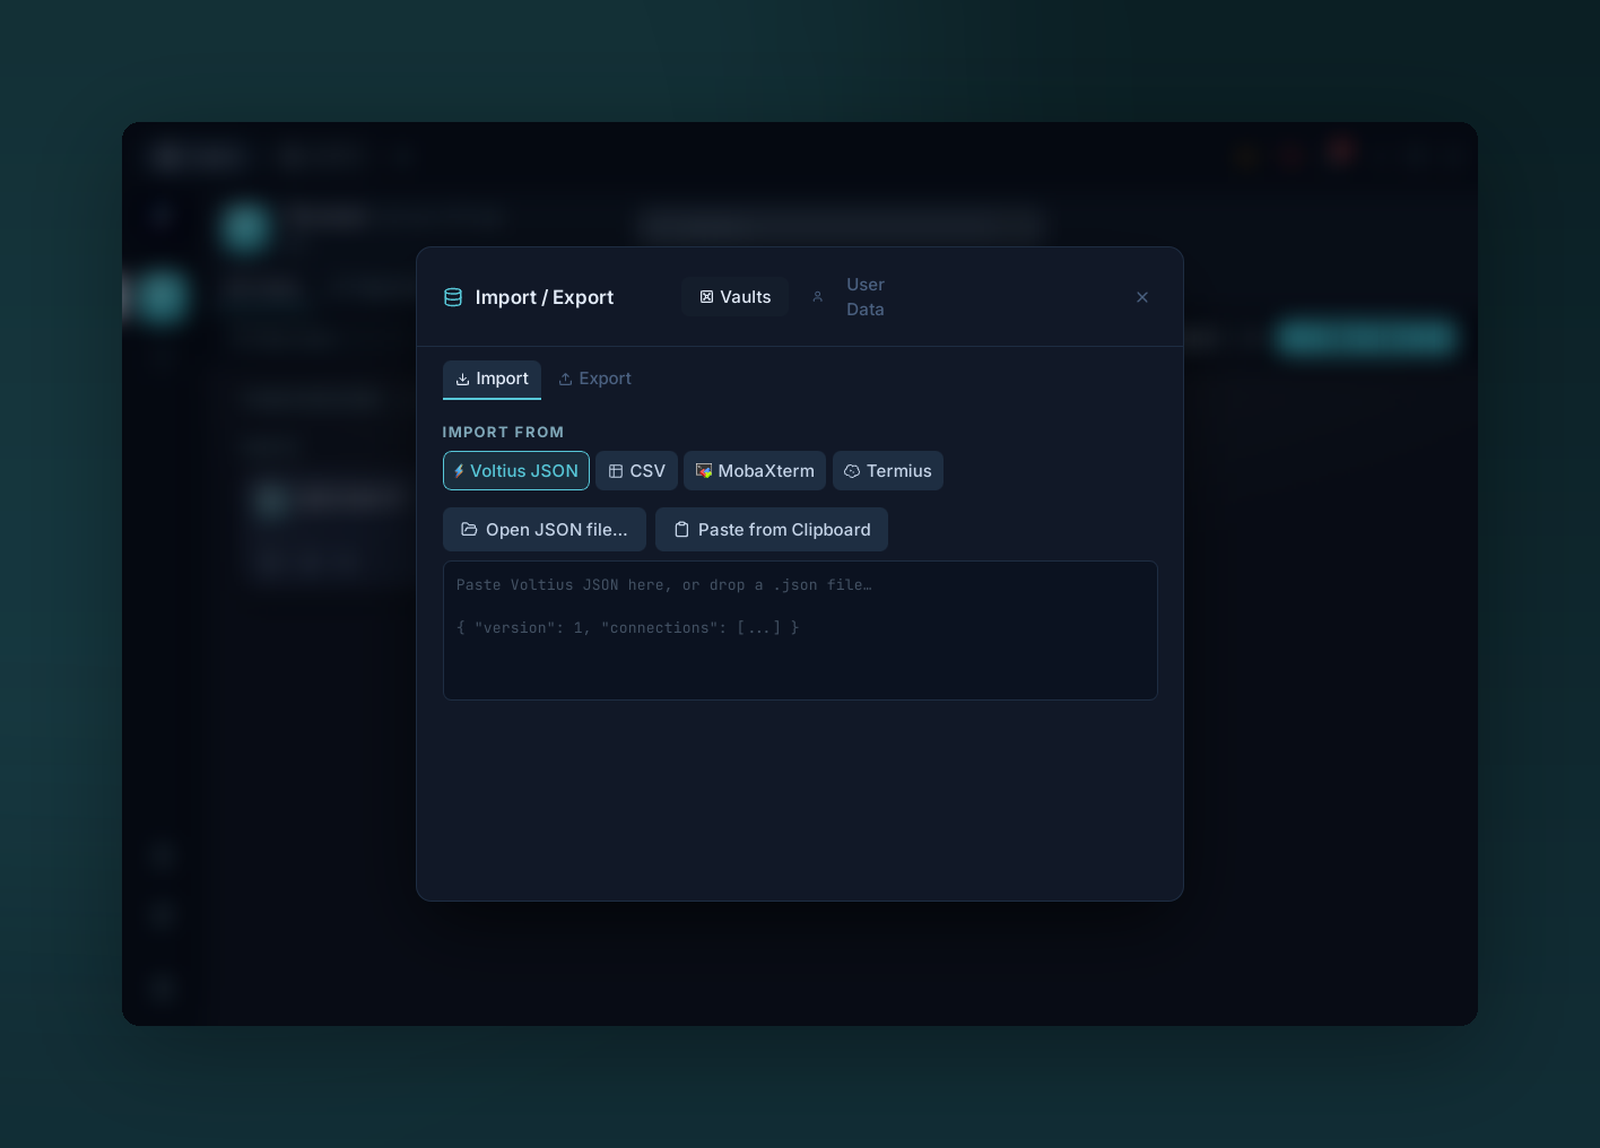
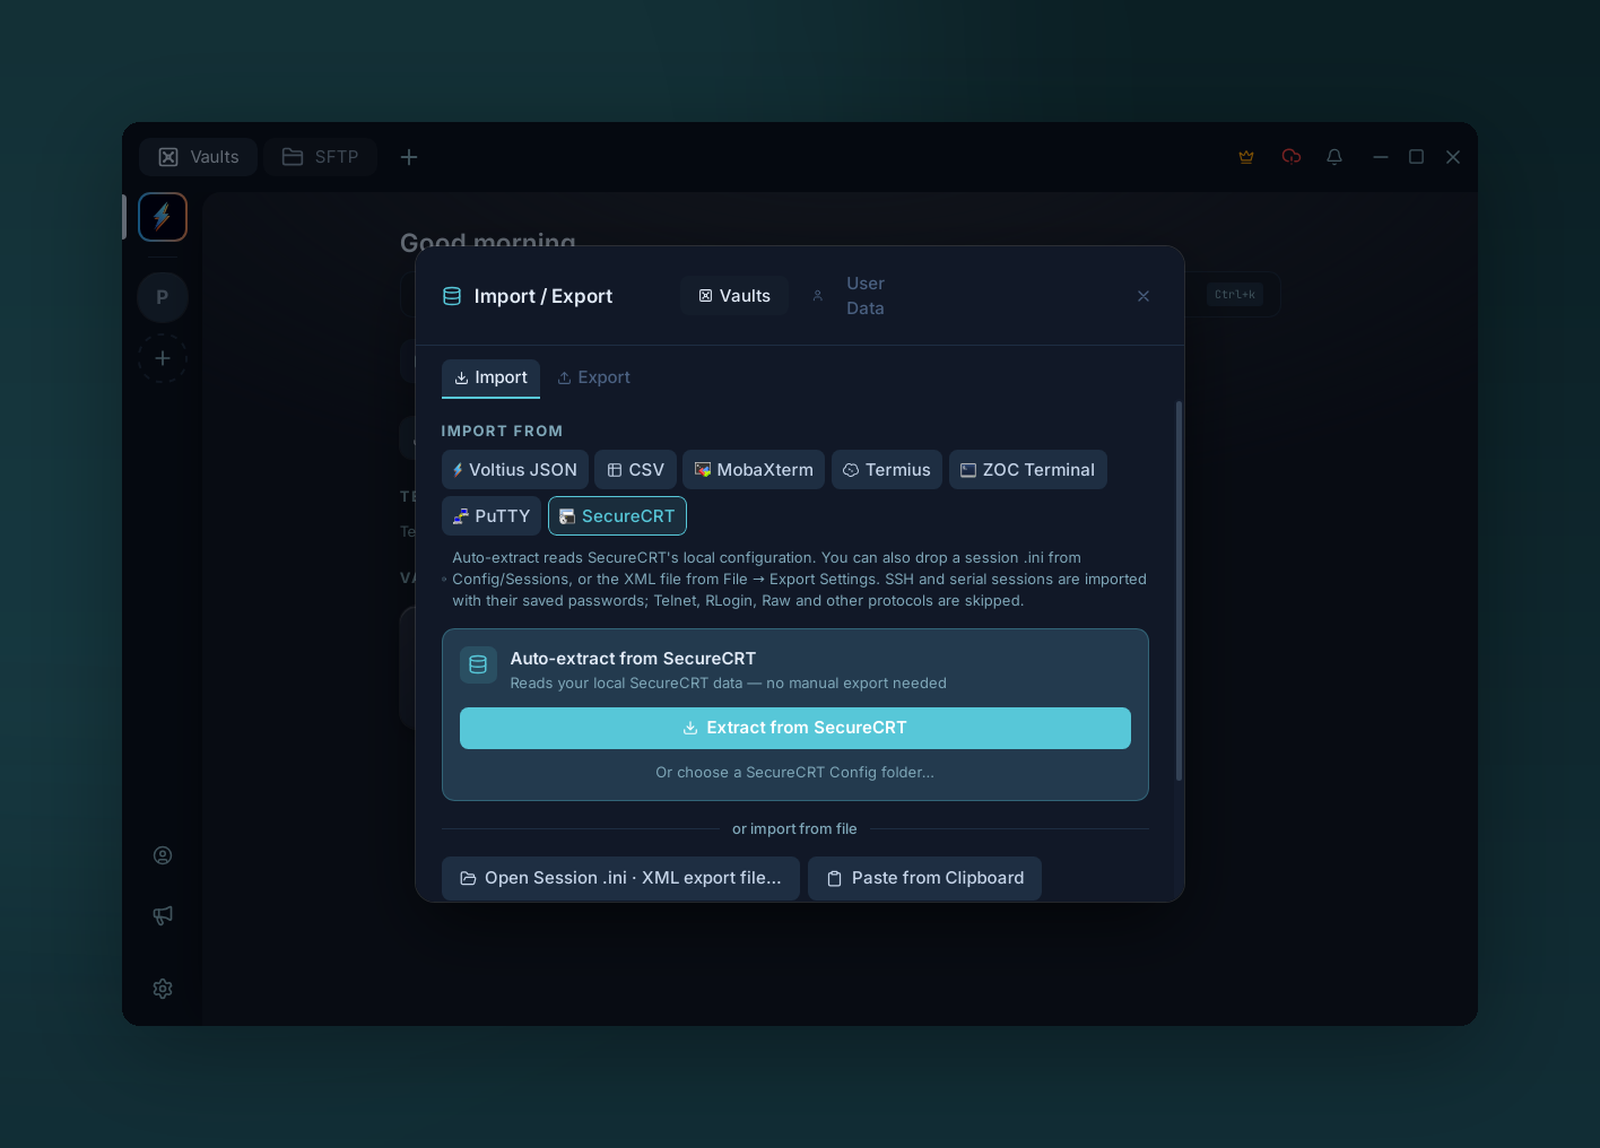
docs(import-export): document every import source and the review step (#31)
The page still said JSON-only and that Termius/PuTTY import wasn't built in.
List each source with how it's read and what it brings over, document the
review step and the real export options, and retake the dialog screenshot.

diff --git a/docs/organization/import-export.md b/docs/organization/import-export.md
@@ -6,25 +6,48 @@ icon: lucide/arrow-down-up
 
 ![The Import / Export dialog](../assets/screenshots/organization-import-export.png){ .voltius-shot }
 /// caption
-Import from Voltius JSON, CSV, MobaXterm, or Termius — or export your vault.
+Import from Voltius JSON, CSV, MobaXterm, Termius, ZOC Terminal, PuTTY or SecureCRT — or export your vault.
 ///
 
-**Settings → Import/Export.** JSON only, today. More formats are on the roadmap.
-
-## Export
-
-Pick a vault, click **Export**. A JSON file downloads with:
-
-- Hosts (metadata)
-- Folders, tags
-- Snippets
-- Identities
-
-Secrets (passwords, private keys) are exported in cleartext inside the JSON — treat it like a credential file.
+Open it from the **Import/Export** button in the Hosts toolbar (its menu lists every source), from the dashboard quick actions, or from the command palette (++ctrl+k++, then *Import from…*).
 
 ## Import
 
-Paste JSON or pick a file. Voltius dry-runs the import and shows you what'll be added vs. updated before committing.
+### Sources
 
-!!! warning "Other clients"
-    Direct import from Termius / OpenSSH config / PuTTY isn't built in yet. For now: write a [plugin](../plugins/developing.md) — the API surface for `connections.bulkImport` is designed for this. An example SSH-config importer ships in the marketplace docs.
+| Source | How | What comes over |
+| --- | --- | --- |
+| **Voltius JSON** | Open a `.json` file or paste it. Encrypted backups ask for their password. | Everything in the export. |
+| **CSV** | Open a file or paste. Columns: `name,host,port,username,auth_type,tags`. | Connections. |
+| **MobaXterm** | **Auto-extract** reads the local install (Windows), or drop `MobaXterm.ini`. | SSH sessions (folders become tags), saved passwords and credentials. |
+| **Termius** | **Auto-extract** reads the local install. Termius must be installed and logged in. | Hosts, groups, identities, keys, snippets and port forwarding rules. |
+| **PuTTY / KiTTY** | **Auto-extract** reads saved sessions from the registry on Windows, or from `~/.putty/sessions` on Linux and macOS. Or drop a `.reg` export, or paste session files. | SSH and serial sessions, proxies, tunnels, KiTTY folders. Key files are not imported — add `.ppk` keys in the [Keychain](../keychain/ssh-keys.md). |
+| **SecureCRT** | **Auto-extract** reads the local configuration, or pick a `Config` folder. Or drop a session `.ini` from `Config/Sessions`, or the XML from *File → Export Settings*. | SSH and serial sessions, folders, jump hosts, the private keys they use, and saved passwords. If the configuration has a config passphrase, Voltius asks for it — or you can import without passwords. Telnet, RLogin and Raw sessions are skipped. |
+| **ZOC Terminal** | **Auto-extract** reads the Host Directory of the newest local ZOC install. Or drop `HostDirectory.zhd` — in `Documents\ZOC9 Files\Options` (Windows) or `~/Library/Application Support/ZOC9 Files/Options` (macOS). | SSH and serial entries, folders. Saved passwords are not imported. |
+
+!!! tip "OpenSSH config"
+    `~/.ssh/config` isn't a one-shot import: the built-in **SSH Config Sync** plugin keeps its hosts in sync as the file changes. Enable it from the [Plugins](../plugins/managing.md) page.
+
+### Review
+
+Nothing is written until you confirm. The review step lists every item grouped by type (connections, keys, identities, port forwarding):
+
+- **Duplicates** of items already in the target vault are flagged and set to **Skip**. Switch any of them to **Import** (keep both) or **Overwrite**, or use *Skip all duplicates* / *Re-include duplicates*.
+- **Linked credentials** — an identity or key the import references but doesn't carry is relinked to the matching one already in the vault, or flagged so you can assign it afterwards.
+- **Import into** — pick one or more vaults; the same items go into each.
+- **Advanced → Tag** — tag every imported item, so a migration is easy to find later.
+
+## Export
+
+Pick a vault and what to include — connections, identities, SSH keys, snippets, port forwarding rules. You can also export a selection or a folder from the Hosts, Keychain, Snippets and Port Forwarding pages.
+
+- **Format** — **JSON** carries everything, including key content. **CSV** is connections only, for spreadsheets.
+- **Include linked credentials** — adds the identities and keys the exported connections use. Leave it off to export connection settings only; on import they relink to a matching identity or key in that vault.
+- Items the export depends on (jump hosts, snippets a host runs) are added automatically so the result keeps working.
+- **Encrypt backup** — turns on by itself as soon as the export holds passwords, keys or host notes; the file is then only readable with your password. Turning it off writes those secrets in cleartext — treat that file like a credential.
+
+Download the file or copy it to the clipboard; *Show preview* displays the JSON first.
+
+## User data
+
+The **User Data** tab exports and imports device settings rather than vault contents: themes, UI preferences, shortcuts, app settings, recent people and the vault list. On import, Voltius lists the sections the file holds and applies only the ones you tick.
